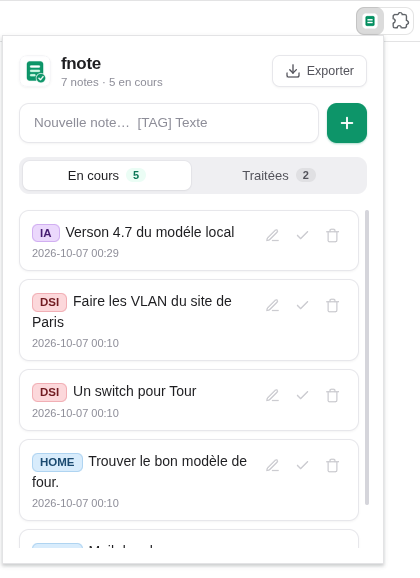
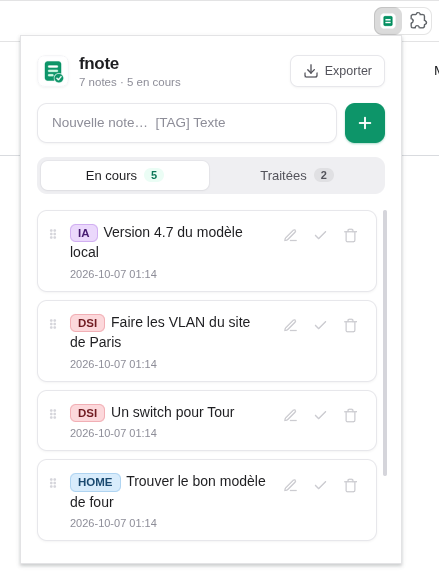
add feature move
+ Réorganisation libre

diff --git a/popup.js b/popup.js
@@ -2,6 +2,8 @@ document.addEventListener('DOMContentLoaded', () => {
   let notes = [];
   let editingIndex = null;
   let toastTimer = null;
+  let skipAnim = false;
+  let dragged = null;
 
   const listActive = document.getElementById('list-active');
   const listDone = document.getElementById('list-done');
@@ -23,7 +25,8 @@ document.addEventListener('DOMContentLoaded', () => {
     delete: svg('<polyline points="3 6 5 6 21 6"/><path d="M19 6v14a2 2 0 0 1-2 2H7a2 2 0 0 1-2-2V6m3 0V4a2 2 0 0 1 2-2h4a2 2 0 0 1 2 2v2"/>'),
     close: svg('<line x1="18" y1="6" x2="6" y2="18"/><line x1="6" y1="6" x2="18" y2="18"/>'),
     inbox: svg('<polyline points="22 12 16 12 14 15 10 15 8 12 2 12"/><path d="M5.45 5.11L2 12v6a2 2 0 0 0 2 2h16a2 2 0 0 0 2-2v-6l-3.45-6.89A2 2 0 0 0 16.76 4H7.24a2 2 0 0 0-1.79 1.11z"/>', 1.5),
-    done: svg('<path d="M22 11.08V12a10 10 0 1 1-5.93-9.14"/><polyline points="22 4 12 14.01 9 11.01"/>', 1.5)
+    done: svg('<path d="M22 11.08V12a10 10 0 1 1-5.93-9.14"/><polyline points="22 4 12 14.01 9 11.01"/>', 1.5),
+    grip: svg('<circle cx="9" cy="6" r="1"/><circle cx="15" cy="6" r="1"/><circle cx="9" cy="12" r="1"/><circle cx="15" cy="12" r="1"/><circle cx="9" cy="18" r="1"/><circle cx="15" cy="18" r="1"/>', 2.5)
   };
 
   function showStatus(text, isError = false) {
@@ -136,7 +139,8 @@ document.addEventListener('DOMContentLoaded', () => {
 
     notes.forEach((item, index) => {
       const div = document.createElement('div');
-      div.className = 'note-item' + (item.done ? ' is-done' : '');
+      div.className = 'note-item' + (item.done ? ' is-done' : '') + (skipAnim ? ' no-anim' : '');
+      div.dataset.index = index;
 
       if (editingIndex === index) {
         div.innerHTML = `
@@ -159,6 +163,7 @@ document.addEventListener('DOMContentLoaded', () => {
           (m, tag) => `<span class="note-tag" style="--h:${tagHue(tag)}">${tag}</span>`);
 
         div.innerHTML = `
+          <button class="drag-handle" title="Glisser pour réorganiser (ou ↑ ↓ au clavier)" aria-label="Déplacer la note" data-index="${index}">${icons.grip}</button>
           <div class="note-content">
             <div class="note-text-display" data-action="start-edit" data-index="${index}">${formattedText}</div>
             <div class="note-date">${escapeHtml(item.date)}</div>
@@ -261,6 +266,118 @@ document.addEventListener('DOMContentLoaded', () => {
       notes.splice(index, 1);
       render(true);
     }
+  });
+
+
+  // ---------- Réorganisation des notes ----------
+  // On réordonne uniquement les notes du même état (en cours / traitées) :
+  // elles reprennent les "emplacements" qu'elles occupaient dans le tableau,
+  // l'autre liste n'est pas touchée.
+  function applyOrder(done, newIndexOrder) {
+    const slots = [];
+    notes.forEach((n, i) => { if (n.done === done) slots.push(i); });
+    const old = notes.slice();
+    newIndexOrder.forEach((oldIdx, k) => { notes[slots[k]] = old[oldIdx]; });
+  }
+
+  function moveNote(index, dir) {
+    const done = notes[index].done;
+    let j = index + dir;
+    while (j >= 0 && j < notes.length && notes[j].done !== done) j += dir;
+    if (j < 0 || j >= notes.length) return;
+    [notes[index], notes[j]] = [notes[j], notes[index]];
+    editingIndex = null;
+    skipAnim = true;
+    render(true);
+    skipAnim = false;
+    const handle = document.querySelector(`.drag-handle[data-index="${j}"]`);
+    if (handle) handle.focus();
+  }
+
+  const contentEl = document.querySelector('.content');
+
+  // Le glisser n'est autorisé que depuis la poignée (le reste de la note
+  // reste cliquable / sélectionnable pour l'édition).
+  document.addEventListener('mousedown', (e) => {
+    const handle = e.target.closest('.drag-handle');
+    if (handle) handle.closest('.note-item').draggable = true;
+  });
+  document.addEventListener('mouseup', () => {
+    document.querySelectorAll('.note-item[draggable="true"]').forEach(el => { el.draggable = false; });
+  });
+
+  document.addEventListener('keydown', (e) => {
+    const handle = e.target.closest && e.target.closest('.drag-handle');
+    if (!handle) return;
+    if (e.key === 'ArrowUp' || e.key === 'ArrowDown') {
+      e.preventDefault();
+      moveNote(parseInt(handle.dataset.index, 10), e.key === 'ArrowUp' ? -1 : 1);
+    }
+  });
+
+  document.addEventListener('dragstart', (e) => {
+    const item = e.target.closest && e.target.closest('.note-item');
+    if (!item || !item.draggable) return;
+    dragged = item;
+    e.dataTransfer.effectAllowed = 'move';
+    e.dataTransfer.setData('text/plain', item.dataset.index);
+    e.dataTransfer.setDragImage(item, 20, 20);
+    requestAnimationFrame(() => item.classList.add('dragging'));
+  });
+
+  contentEl.addEventListener('dragover', (e) => {
+    if (!dragged) return;
+    e.preventDefault();
+    e.dataTransfer.dropEffect = 'move';
+
+    const list = dragged.parentElement;
+
+    // Défilement automatique près des bords
+    const r = contentEl.getBoundingClientRect();
+    if (e.clientY < r.top + 36) contentEl.scrollTop -= 10;
+    else if (e.clientY > r.bottom - 36) contentEl.scrollTop += 10;
+
+    // Trouver la note devant laquelle insérer
+    const siblings = [...list.querySelectorAll('.note-item:not(.dragging)')];
+    let before = null;
+    for (const el of siblings) {
+      const b = el.getBoundingClientRect();
+      if (e.clientY < b.top + b.height / 2) { before = el; break; }
+    }
+    if (before) {
+      if (dragged.nextElementSibling !== before) list.insertBefore(dragged, before);
+    } else if (list.lastElementChild !== dragged) {
+      list.appendChild(dragged);
+    }
+  });
+
+  contentEl.addEventListener('drop', (e) => {
+    if (dragged) e.preventDefault();
+  });
+
+  document.addEventListener('dragend', (e) => {
+    if (!dragged) return;
+    const item = dragged;
+    dragged = null;
+    item.draggable = false;
+    item.classList.remove('dragging');
+
+    const cancelled = e.dataTransfer && e.dataTransfer.dropEffect === 'none';
+    const list = item.parentElement;
+    const order = [...list.querySelectorAll('.note-item[data-index]')]
+      .map(el => parseInt(el.dataset.index, 10));
+    const changed = order.some((v, k) => k > 0 && v < order[k - 1]);
+
+    skipAnim = true;
+    if (cancelled || !changed) {
+      render(false);
+    } else {
+      const done = notes[order[0]].done;
+      applyOrder(done, order);
+      editingIndex = null;
+      render(true);
+    }
+    skipAnim = false;
   });
 
   function addNote() {

diff --git a/popup.css b/popup.css
@@ -273,7 +273,7 @@ body {
   display: flex;
   align-items: flex-start;
   justify-content: space-between;
-  gap: 10px;
+  gap: 8px;
   background: var(--surface);
   border: 1px solid var(--border);
   border-radius: var(--radius);
@@ -287,6 +287,53 @@ body {
 .note-item:focus-within {
   border-color: var(--border-strong);
   box-shadow: var(--shadow-md);
+}
+
+.note-item.no-anim {
+  animation: none;
+}
+
+.note-item.dragging {
+  opacity: 0.4;
+  border-style: dashed;
+  border-color: var(--accent);
+  background: var(--accent-soft);
+}
+
+.drag-handle {
+  background: transparent;
+  border: none;
+  color: var(--border-strong);
+  width: 18px;
+  height: 28px;
+  margin: -2px 0 0 -6px;
+  border-radius: 6px;
+  cursor: grab;
+  display: flex;
+  align-items: center;
+  justify-content: center;
+  flex-shrink: 0;
+  transition: background 0.15s, color 0.15s;
+}
+
+.drag-handle .icon {
+  width: 14px;
+  height: 14px;
+}
+
+.note-item:hover .drag-handle {
+  color: var(--text-3);
+}
+
+.drag-handle:hover,
+.drag-handle:focus-visible {
+  background: var(--surface-3);
+  color: var(--text);
+  outline: none;
+}
+
+.drag-handle:active {
+  cursor: grabbing;
 }
 
 @keyframes pop {

diff --git a/popup.html b/popup.html
@@ -2,7 +2,7 @@
 <html lang="fr">
 <head>
   <meta charset="UTF-8">
-  <title>fnote GUI</title>
+  <title>fnote</title>
   <link rel="stylesheet" href="popup.css">
 </head>
 <body>

diff --git a/README.md b/README.md
@@ -1,6 +1,6 @@
-# fnote GUI - Extension Web
+# fnote - Extension Web
 
-Extension Chrome / Edge / Brave avec une Interface graphique moderne, minimaliste et en thème clair pour le gestionnaire de notes [fnote](https://github.com/medaey/fnote).
+Extension Chrome / Edge / Brave avec une Interface graphique moderne, minimaliste et en thème clair pour la gestion de notes.
 
 <p align="center">
   <img src="preview.png" alt="Aperçu de l'extension" width="600"/>
@@ -13,14 +13,15 @@ Extension Chrome / Edge / Brave avec une Interface graphique moderne, minimalist
 - **Ajout rapide** de notes avec catégorisation via tags (`[PROJECT] ma note`).
 - **Tags colorés automatiquement** : chaque `[TAG]` reçoit une couleur propre, toujours identique pour un même tag (insensible à la casse).
 - **Édition directe en ligne** : cliquez sur une note ou sur l'icône de crayon pour la modifier instantanément.
+- **Réorganisation libre** : attrapez la poignée ⋮⋮ à gauche d'une note et glissez-la où vous voulez (ou `↑` / `↓` au clavier sur la poignée). L'ordre est sauvegardé et conservé dans l'export `dump.jsonl`.
 - **Gestion d'état** : basculez les notes entre *En cours* et *Traitées*.
 - **Iconographie Feather SVG modernisée** : interface propre et harmonieuse.
 - **Exportation `dump.jsonl`** : exportez vos notes en un clic pour une synchronisation transparente avec la CLI `fnote`.
 
 ## 📦 Installation
 
-1. Téléchargez et dézippez le fichier `fnote-extension-v1.9.zip`.
-2. Ouvrez votre navigateur (Chrome, Brave, Edge, Firefox).
+1. Téléchargez et dézippez le fichier `fnote-web-extension.zip`.
+2. Ouvrez votre navigateur (Chrome, Brave, Edge).
 3. Allez sur `chrome://extensions/` et activez le **Mode développeur** (en haut à droite).
 4. Cliquez sur **Charger l'extension non empaquetée** (*Load unpacked*).
 5. Sélectionnez le dossier dézipé contennant le `manifest.json`.
